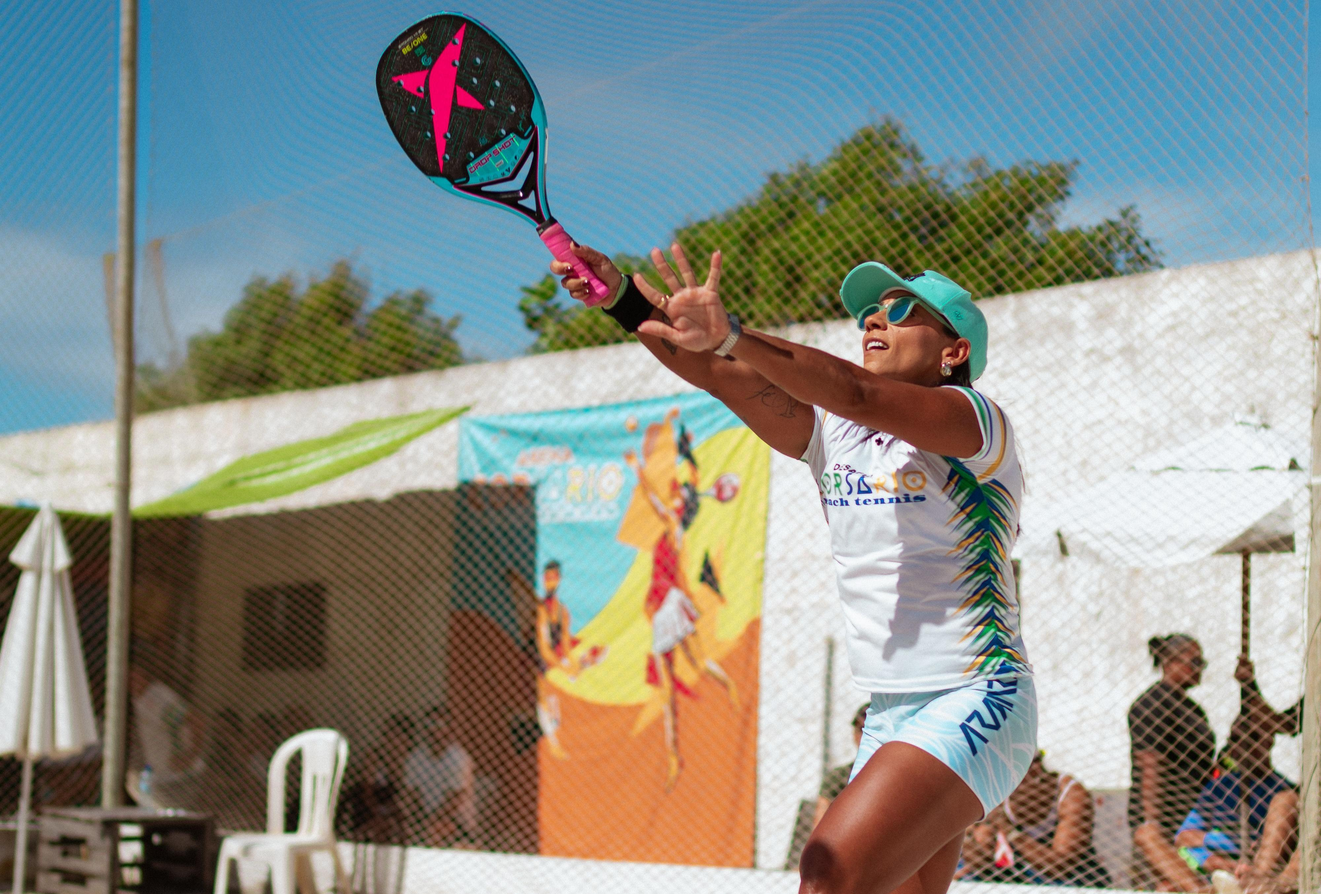
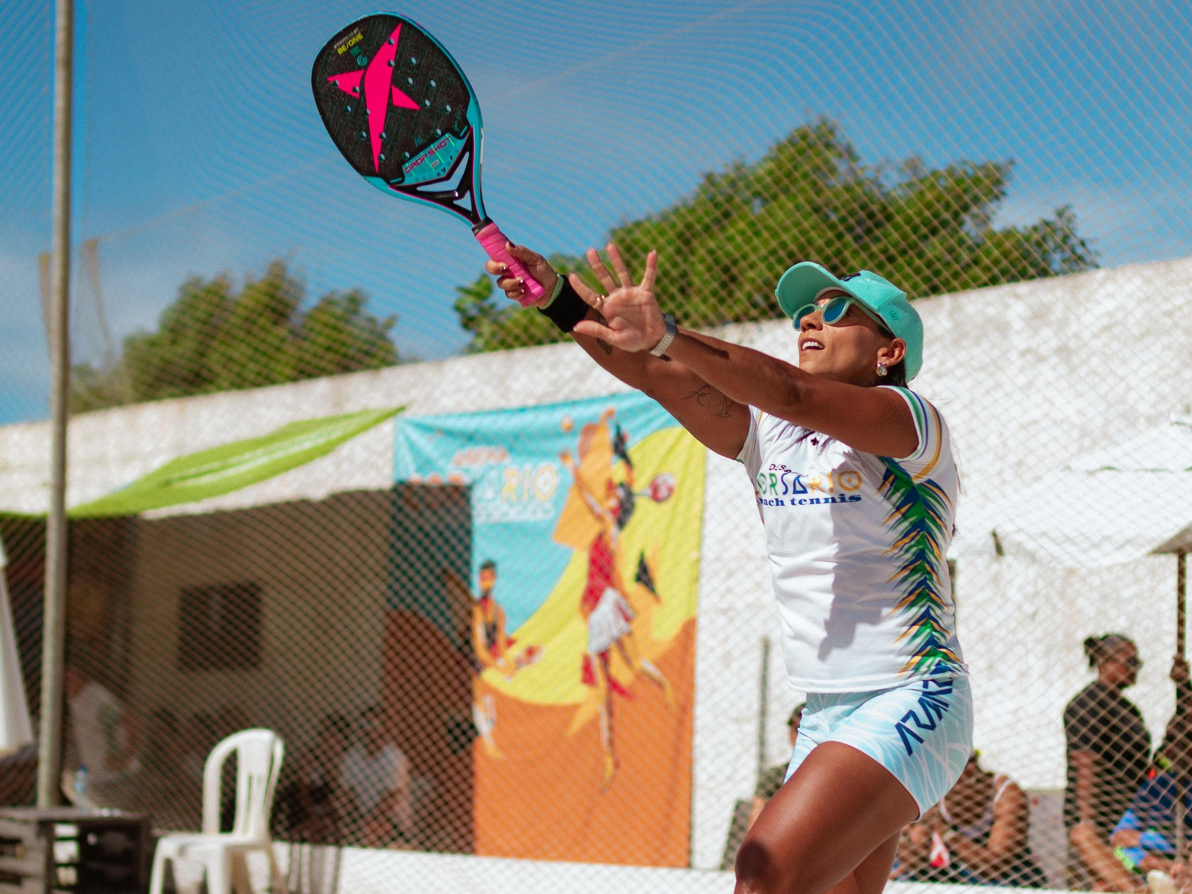
ajusta cards

diff --git a/beachgroup/src/components/Card.tsx b/beachgroup/src/components/Card.tsx
@@ -11,19 +11,17 @@ type CardProps = {
 
 const Card = ({ imagem, titulo, descricao, valor, tipo = "mes" }: CardProps) => {
     return (
-        <div className="mt-6 mx-6 border border-black/30 p-4 rounded-4xl md:w-80">
-            <div className=''>
-                <div className='flex justify-center pb-2'>
-                    <img src={imagem} className='md:max-h-50 rounded-4xl' alt="Beach tennis training" />
-                </div>
-                <div className='flex flex-col px-4'>
-                    <p className='uppercase font-bold pb-2'>{titulo}</p>
-                    <p className='pb-2 text-sm'>{descricao}</p>
-                    <div className='flex justify-between items-baseline'>
-                        <p className='font-bold text-xs'>R${valor}<span className='text-sm'>/{tipo}</span></p>
-                    <Button title="Contratar" />
-                    </div>
-                </div>
+        <div className="mb-6 mx-6 border border-black/30 p-4 rounded-4xl md:mb-0.5 md:w-80 flex flex-col justify-between">
+            <div className='flex justify-center pb-2'>
+                <img src={imagem} className='md:max-h-50 rounded-4xl' alt="Beach tennis training" />
+            </div>
+            <div className='flex flex-col'>
+                <p className='uppercase font-bold pb-2'>{titulo}</p>
+                <p className='pb-2 text-sm'>{descricao}</p>
+            </div>
+            <div className='flex justify-between items-baseline'>
+                <p className='font-bold text-xs'>R${valor}<span className='text-sm'>/{tipo}</span></p>
+                <Button title="Contratar" />
             </div>
         </div>
     )

diff --git a/beachgroup/src/components/SecaoCards.tsx b/beachgroup/src/components/SecaoCards.tsx
@@ -7,7 +7,9 @@ import imagem3 from '../assets/foto5.jpg';
 
 const SecaoCards = () => {
     return (
-        <div className='grid md:grid-cols-4 items-center justify-items-center'>
+        <div>
+            <h2 className='uppercase text-2xl font-bold italic mt-6 mb-2 mx-6'>Nossos planos</h2>
+            <div className='grid md:grid-cols-4 items-stretch justify-items-center h-full'>
             <Card imagem={imagem0}
                 titulo='Passe único'
                 descricao='Alugue a quadra uma única vez'
@@ -27,6 +29,7 @@ const SecaoCards = () => {
                 titulo='Aulas particulares'
                 descricao='Aulas particulares com direito à 2 aulas semanais com nossos instrutores'
                 valor='350' />
+        </div>
         </div>
 
     )
